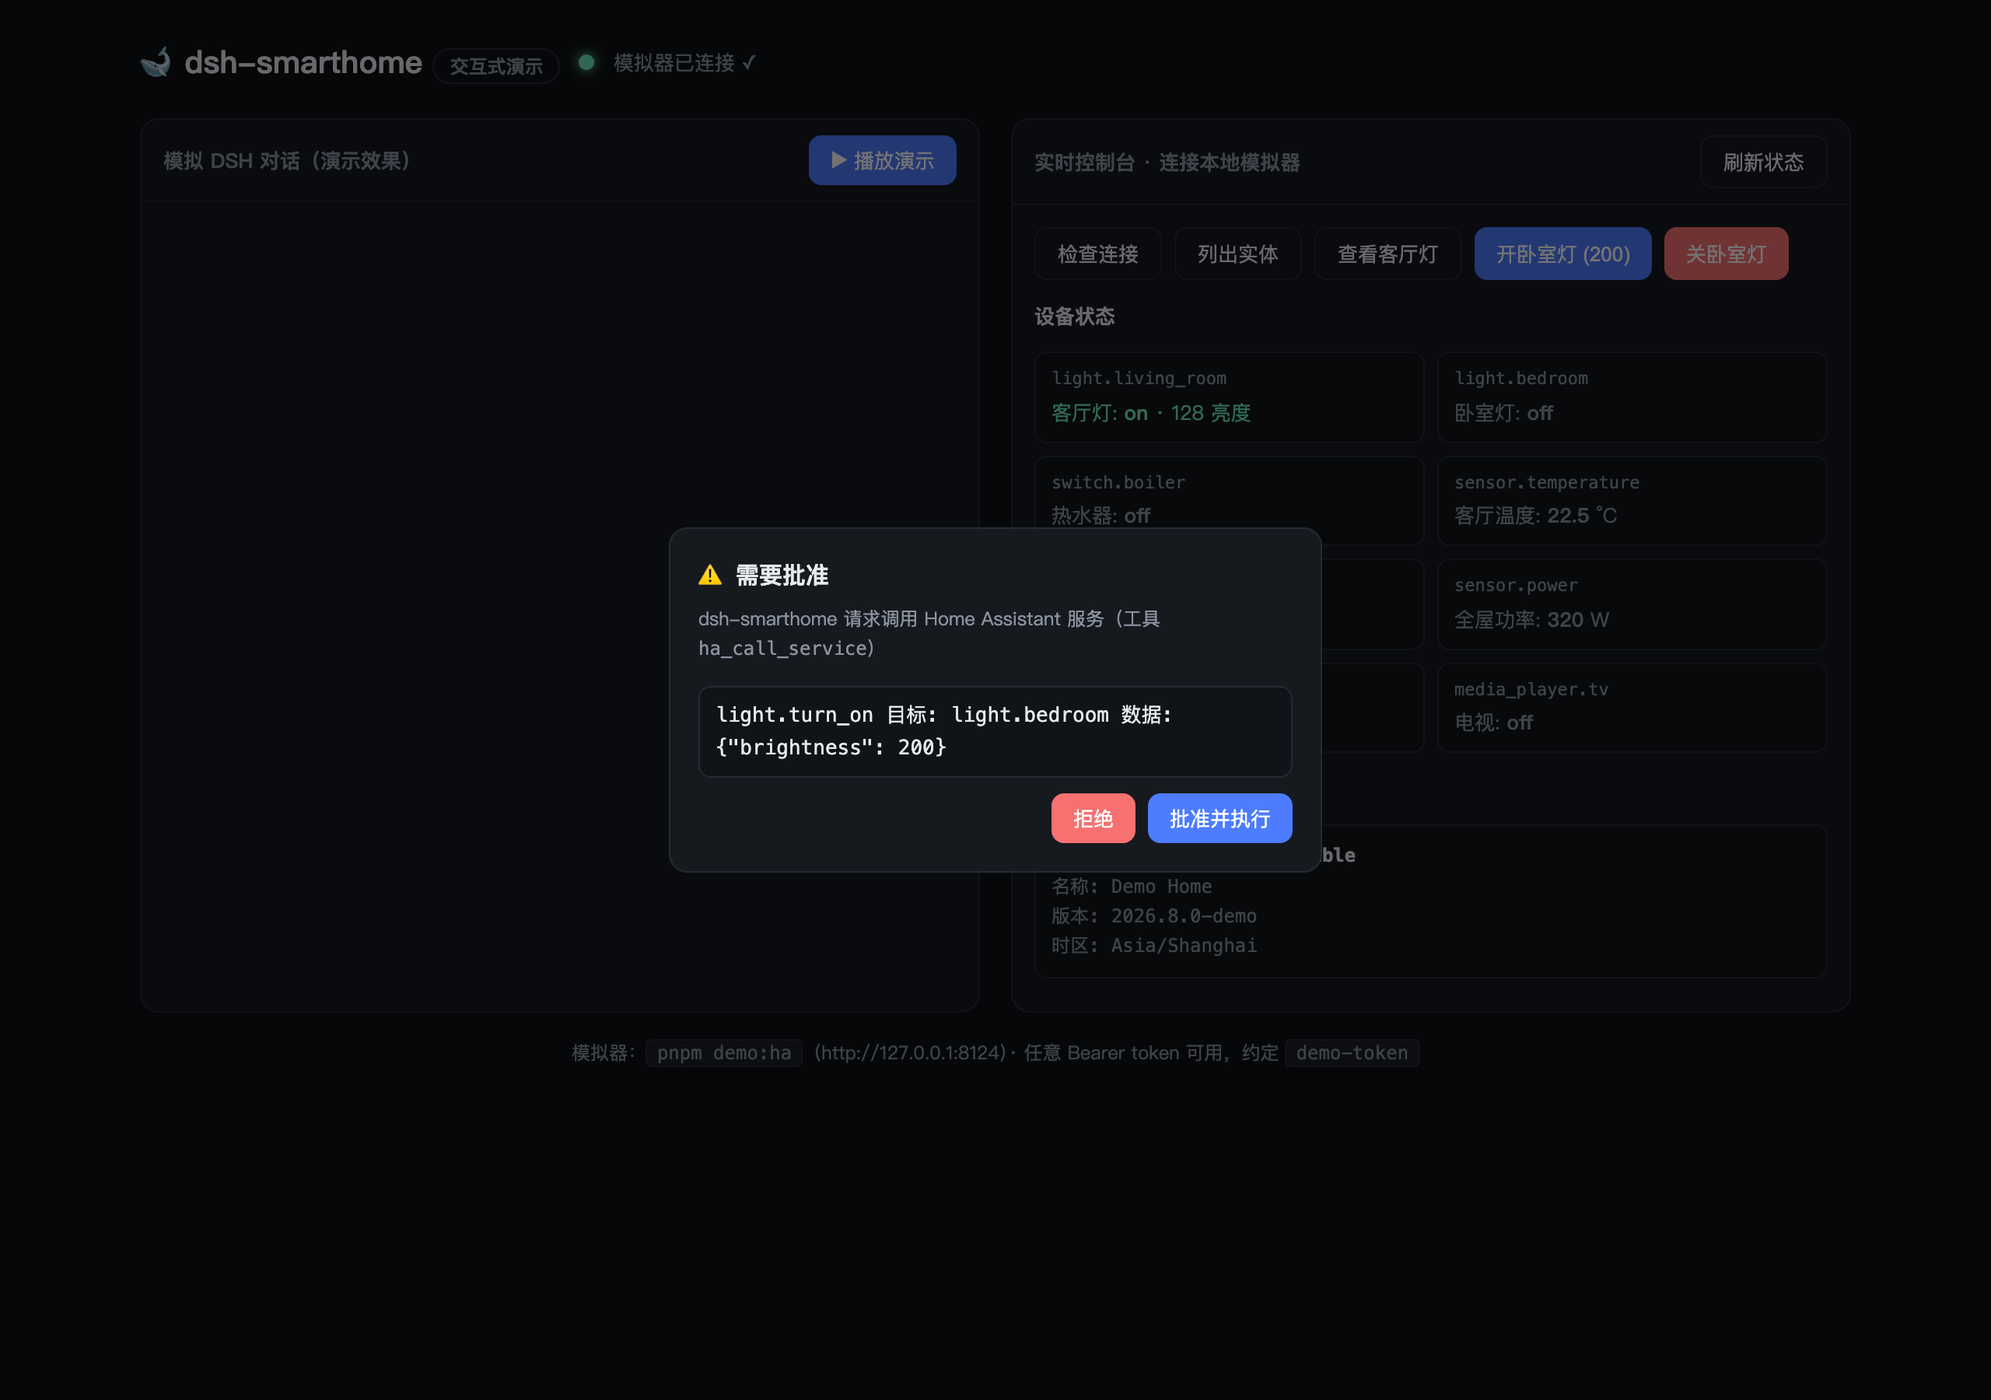
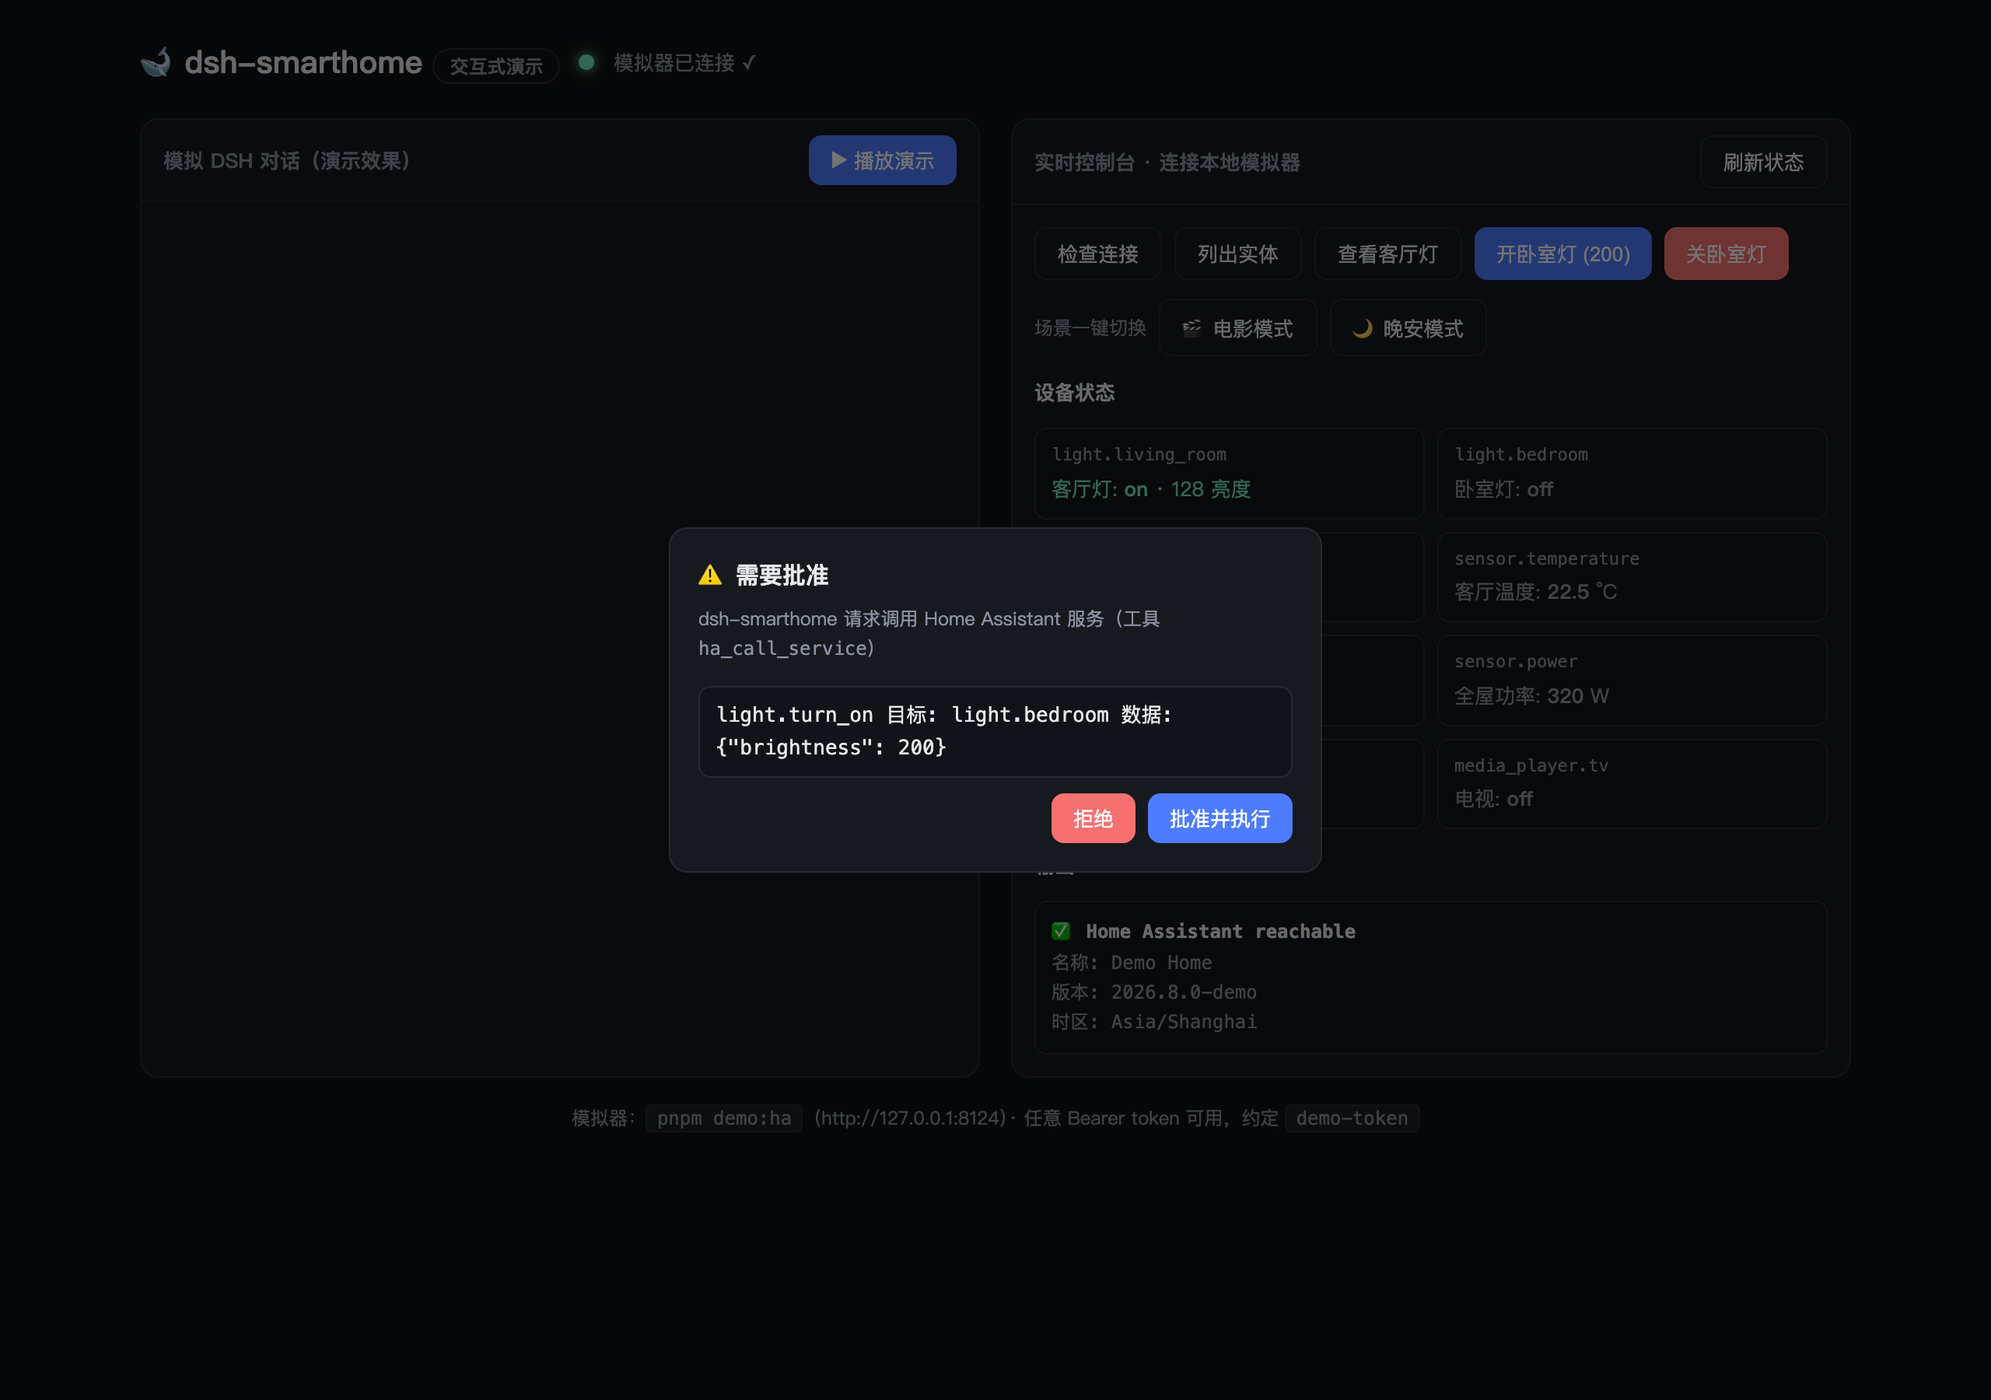
feat: v1.1.0 — scenes + README use-case sections
- ha_list_scenes: list one-click scenes; activate via ha_call_service
  (scene.turn_on) with the existing approval gate
- demo emulator: 3 demo scenes (cinema/goodnight/away) whose activation
  cascades across devices with live state_changed broadcasts
- demo page: scene quick buttons (movie / goodnight) in the live console
- README (EN/ZH): new 'What can it do?' use-case table and 'Why it's
  good' section; scenes in the features table and prompts
- emulator tests: start once per suite (ESM cache), wait for WS before
  cascades, explicit timeouts — stable across repeated runs
- 25 tests (3 suites); screenshots refreshed; version 1.1.0

diff --git a/tests/integration.test.ts b/tests/integration.test.ts
@@ -59,7 +59,7 @@ afterAll(() => {
 })
 
 describe('dsh-smarthome in the real tool runtime', () => {
-  it('registers all eight ha_* tools', async () => {
+  it('registers all nine ha_* tools', async () => {
     const ctx = await setup()
     const names = ctx.tools.schemas().map(s => s.name).sort()
     expect(names).toEqual([
@@ -70,6 +70,7 @@ describe('dsh-smarthome in the real tool runtime', () => {
       'ha_history',
       'ha_list_areas',
       'ha_list_entities',
+      'ha_list_scenes',
       'ha_render_template',
     ])
   })
@@ -241,11 +242,13 @@ describe('dsh-smarthome in the real tool runtime', () => {
 
 describe('WebSocket-backed tools against the demo emulator', () => {
   // Imported in-process (the harness sandbox cannot spawn child node processes
-  // from the vitest worker; in-process import is also CI-proof).
+  // from the vitest worker; in-process import is also CI-proof). The emulator
+  // module runs its top-level `listen` exactly once (ESM caches modules), so it
+  // is started once for the whole describe and shared by the tests below.
   let emuPort: number
   let emu: { stop: () => void } | undefined
 
-  async function startEmulator(): Promise<void> {
+  beforeAll(async () => {
     emuPort = 19000 + Math.floor(Math.random() * 1000)
     // The emulator reads its port from argv[2] at import time.
     process.argv[2] = String(emuPort)
@@ -260,7 +263,12 @@ describe('WebSocket-backed tools against the demo emulator', () => {
       await new Promise(r => setTimeout(r, 100))
     }
     throw new Error('demo emulator did not start')
-  }
+  })
+
+  afterAll(() => {
+    emu?.stop()
+    emu = undefined
+  })
 
   async function waitForWs(ctx: Context, want: string, timeoutMs = 8000): Promise<void> {
     const deadline = Date.now() + timeoutMs
@@ -278,15 +286,13 @@ describe('WebSocket-backed tools against the demo emulator', () => {
   }
 
   it('lists areas, buffers live state changes, and targets areas', async () => {
-    await startEmulator()
-    try {
-      const ctx = await setup({
-        baseUrl: `http://127.0.0.1:${emuPort}`,
-        token: 'demo-token',
-        requireApproval: false,
-      })
-      // 1. WebSocket connects (real HA-style WS handshake against the emulator).
-      await waitForWs(ctx, 'connected')
+    const ctx = await setup({
+      baseUrl: `http://127.0.0.1:${emuPort}`,
+      token: 'demo-token',
+      requireApproval: false,
+    })
+    // 1. WebSocket connects (real HA-style WS handshake against the emulator).
+    await waitForWs(ctx, 'connected')
 
       // 2. ha_list_areas reads the area registry over WS.
       const areas = await ctx.tools.execute({
@@ -341,11 +347,7 @@ describe('WebSocket-backed tools against the demo emulator', () => {
         arguments: { entityId: 'light.bedroom' },
       })
       expect((state.value as { state?: string }).state).toBe('off')
-    } finally {
-      emu?.stop()
-      emu = undefined
-    }
-  })
+  }, 20000)
 
   it('degrades gracefully when the WebSocket is unreachable', async () => {
     const ctx = await setup({ wsEnabled: true }) // points at the REST-only mock
@@ -358,4 +360,76 @@ describe('WebSocket-backed tools against the demo emulator', () => {
     expect(areas.isError).toBe(true)
     expect(textOf(areas)).toMatch(/WebSocket is not connected|WebSocket is unavailable/)
   })
+
+  it('lists scenes and activates one — the emulator cascades the whole mood', async () => {
+    const ctx = await setup({
+      baseUrl: `http://127.0.0.1:${emuPort}`,
+      token: 'demo-token',
+      requireApproval: false,
+    })
+    // Make sure THIS plugin's WebSocket is subscribed before the cascade, or
+    // its ha_events buffer would miss the state_changed broadcasts.
+    await waitForWs(ctx, 'connected')
+
+      // 1. ha_list_scenes finds the demo scenes.
+      const scenes = await ctx.tools.execute({
+        signal,
+        callId: CallId('t-scenes'),
+        name: 'ha_list_scenes',
+        arguments: {},
+      })
+      expect(scenes.isError).toBe(false)
+      const sceneList = (scenes.value as { scenes: { entity_id: string; friendly_name: string }[] }).scenes
+      expect(sceneList.map(s => s.entity_id).sort()).toEqual([
+        'scene.away',
+        'scene.cinema',
+        'scene.goodnight',
+      ])
+
+      // 2. Activate "cinema" via the ordinary service-call tool.
+      const activate = await ctx.tools.execute({
+        signal,
+        callId: CallId('t-scene-on'),
+        name: 'ha_call_service',
+        arguments: { domain: 'scene', service: 'turn_on', entityId: 'scene.cinema' },
+      })
+      expect(activate.isError).toBe(false)
+
+      // 3. The cascade landed: dimmed living-room light, TV on, bedroom off.
+      const livingRoom = await ctx.tools.execute({
+        signal,
+        callId: CallId('t-scene-lr'),
+        name: 'ha_get_state',
+        arguments: { entityId: 'light.living_room' },
+      })
+      const lr = livingRoom.value as { state?: string; attributes?: { brightness?: number } }
+      expect(lr.state).toBe('on')
+      expect(lr.attributes?.brightness).toBe(40)
+
+      const tv = await ctx.tools.execute({
+        signal,
+        callId: CallId('t-scene-tv'),
+        name: 'ha_get_state',
+        arguments: { entityId: 'media_player.tv' },
+      })
+      expect((tv.value as { state?: string }).state).toBe('on')
+
+      const bedroom = await ctx.tools.execute({
+        signal,
+        callId: CallId('t-scene-br'),
+        name: 'ha_get_state',
+        arguments: { entityId: 'light.bedroom' },
+      })
+      expect((bedroom.value as { state?: string }).state).toBe('off')
+
+      // 4. The whole cascade is visible in the real-time event feed.
+      const events = await ctx.tools.execute({
+        signal,
+        callId: CallId('t-scene-events'),
+        name: 'ha_events',
+        arguments: {},
+      })
+      const eventList = (events.value as { events: { entity_id: string }[] }).events
+      expect(eventList.some(e => e.entity_id === 'media_player.tv')).toBe(true)
+  }, 20000)
 })

diff --git a/src/tools.ts b/src/tools.ts
@@ -418,4 +418,59 @@ export function registerTools(
       return { template: args.template, rendered }
     },
   }))
+
+  ctx.tools.register(defineTool({
+    name: 'ha_list_scenes',
+    description:
+      'List Home Assistant scenes (one-click moods like "cinema", "goodnight", "away"). ' +
+      'Activate one with ha_call_service: domain "scene", service "turn_on", entityId the scene entity id.',
+    parameters: {
+      query: { type: 'string', description: 'Optional text search over scene id or friendly name' },
+    },
+    output: {
+      schema: {
+        type: 'object',
+        additionalProperties: true,
+        properties: {
+          count: { type: 'number' },
+          scenes: {
+            type: 'array',
+            items: {
+              type: 'object',
+              additionalProperties: true,
+              properties: {
+                entity_id: { type: 'string' },
+                state: { type: 'string' },
+                friendly_name: { type: 'string' },
+              },
+            },
+          },
+        },
+      },
+      render: (_args, value) => {
+        const scenes = value.scenes as { entity_id: string; friendly_name: string }[]
+        return text(scenes.length
+          ? scenes.map(s => `- ${s.entity_id}: ${s.friendly_name || s.entity_id}`).join('\n')
+          : '(no scenes)')
+      },
+    },
+    async execute(args) {
+      const states = await client.getStates()
+      const query = (args.query ?? '').toLowerCase()
+      const scenes = states
+        .filter(s => s.entity_id.startsWith('scene.'))
+        .filter(s => !query ||
+          s.entity_id.toLowerCase().includes(query) ||
+          String(s.attributes.friendly_name ?? '').toLowerCase().includes(query))
+        .sort((a, b) => a.entity_id.localeCompare(b.entity_id))
+        .map(s => ({
+          entity_id: s.entity_id,
+          state: s.state,
+          friendly_name: typeof s.attributes.friendly_name === 'string'
+            ? s.attributes.friendly_name
+            : '',
+        }))
+      return { count: scenes.length, scenes }
+    },
+  }))
 }

diff --git a/docs/demo.html b/docs/demo.html
@@ -88,6 +88,11 @@
           <button class="btn" data-act="turnon">开卧室灯 (200)</button>
           <button class="btn danger" data-act="turnoff">关卧室灯</button>
         </div>
+        <div class="row">
+          <span style="font-size:12px;color:var(--muted);align-self:center">场景一键切换</span>
+          <button class="btn ghost" data-act="scene-cinema">🎬 电影模式</button>
+          <button class="btn ghost" data-act="scene-goodnight">🌙 晚安模式</button>
+        </div>
         <div><b style="font-size:13px">设备状态</b></div>
         <div id="states" class="states"></div>
         <div><b style="font-size:13px">输出</b></div>
@@ -330,6 +335,13 @@ document.querySelectorAll('.console [data-act]').forEach(btn => {
       const approved = await askApproval(`light.${service}\n目标: light.bedroom${act === 'turnon' ? '\n数据: {"brightness": 200}' : ''}`);
       if (!approved) { logOut('❌ 已拒绝'); return; }
       return callService('light', service, { entity_id: ['light.bedroom'], ...(act === 'turnon' ? { brightness: 200 } : {}) });
+    }
+    if (act === 'scene-cinema' || act === 'scene-goodnight') {
+      const sceneId = act === 'scene-cinema' ? 'scene.cinema' : 'scene.goodnight';
+      const name = act === 'scene-cinema' ? '🎬 电影模式' : '🌙 晚安模式';
+      const approved = await askApproval(`scene.turn_on\n场景: ${name}\n目标: 全屋多设备联动`);
+      if (!approved) { logOut('❌ 已拒绝'); return; }
+      return callService('scene', 'turn_on', { entity_id: [sceneId] });
     }
   };
 });

diff --git a/README.md b/README.md
@@ -27,6 +27,30 @@ Click any image to open the live demo — [`docs/demo.html`](docs/demo.html) sim
 | <img src="docs/assets/demo-start.png" width="380" alt="start"> | <img src="docs/assets/demo-approval.png" width="380" alt="approval"> | <img src="docs/assets/demo-final.png" width="380" alt="final"> |
 | The agent lists your lights with `ha_list_entities`. | `ha_call_service` pauses for a human approval dialog. | Approved — `ha_get_state` confirms the light turned on. |
 
+## 🎯 What can it do?
+
+Talk to your home the way you talk to an assistant — every write goes through a human approval gate first.
+
+| You say | What happens |
+|---|---|
+| "Check the whole house — which devices are still on?" | Agent scans with `ha_list_entities` / `ha_get_state` and summarizes |
+| "Set the bedroom light to 200 brightness." | `ha_call_service` → **approval dialog** → executes → state updates instantly |
+| "Turn off every light in the living room." | **Area targeting** — one call controls the whole room |
+| "Start cinema mode." | Scene activation: dimmed lights + TV on — a whole cascade of devices in one shot (`ha_events` shows each change live) |
+| "What changed in the house in the last hour?" | Real-time `state_changed` events from the **WebSocket** feed |
+| "Is the living room warm enough? Compare with the bedroom." | `ha_get_state` / `ha_render_template` over sensors |
+| "Turn everything off, I'm leaving." | One scene (`scene.away`) or a multi-entity service call |
+
+## 💡 Why it's good — how useful is it?
+
+- **One-line install**: `dsh plugin --profile web add dsh-smarthome`, then just talk to the agent.
+- **Safe by default**: every state-changing call stops for human approval; `allowedDomains` is a second deny-list belt. The agent can never touch your home without you saying yes.
+- **Natural language control**: no apps to fiddle with, no API docs to memorize — "dim the lights" just works.
+- **Always current**: state changes reach the agent in real time over WebSocket, so it never "thinks" the light is still on when you switched it off.
+- **Lightweight**: zero runtime dependencies — plain REST + Node's built-in WebSocket. No MQTT broker, no extra daemon.
+- **Try it without Home Assistant**: the repo ships a demo emulator + interactive demo page — 5 minutes to a full feel of the plugin.
+- **Engineered, not hacked together**: 24 tests including a full **real agent-loop end-to-end** suite, strict TypeScript, CI.
+
 ## 🛠 Features
 
 | Tool | Description | Approval |
@@ -37,7 +61,8 @@ Click any image to open the live demo — [`docs/demo.html`](docs/demo.html) sim
 | `ha_get_state` | Full state + attributes of one entity | read |
 | `ha_history` | State-change timeline over a time window | read |
 | `ha_events` | Recent real-time state changes buffered from the WebSocket | read |
-| `ha_call_service` | Call any service — by **entity**, by **area** (whole room), or by **device** | **ask** |
+| `ha_list_scenes` | List one-click scenes (`cinema`, `goodnight`, `away`…) | read |
+| `ha_call_service` | Call any service — by **entity**, by **area** (whole room), by **device**, or **scene** | **ask** |
 | `ha_render_template` | Render a Jinja2 template server-side | **ask** |
 
 Example prompts:
@@ -49,6 +74,8 @@ Example prompts:
 > "Show me the boiler switch history for the last 24 hours."
 >
 > "Turn off every light in the bedroom." *(area targeting — one call, whole room)*
+>
+> "Start cinema mode." *(scene activation — lights dim, TV turns on)*
 >
 > "What changed in the house in the last hour?" *(real-time `ha_events`)*
 

diff --git a/README.zh.md b/README.zh.md
@@ -27,6 +27,30 @@
 | <img src="docs/assets/demo-start.png" width="380" alt="开始"> | <img src="docs/assets/demo-approval.png" width="380" alt="审批"> | <img src="docs/assets/demo-final.png" width="380" alt="完成"> |
 | agent 用 `ha_list_entities` 列出你的灯。 | `ha_call_service` 暂停，弹出人工审批框。 | 批准后 `ha_get_state` 确认灯已打开。 |
 
+## 🎯 能做什么？
+
+像跟管家说话一样指挥你的家——所有写操作都先经过人工审批。
+
+| 你说 | 会发生什么 |
+|---|---|
+| 「检查一下全屋，哪些设备还开着？」 | agent 用 `ha_list_entities` / `ha_get_state` 扫描并汇总 |
+| 「把卧室灯调到 200 亮度。」 | `ha_call_service` → **审批弹窗** → 执行 → 状态即时更新 |
+| 「关掉客厅里所有的灯。」 | **区域定位**——一次调用控制整间房 |
+| 「开启电影模式。」 | 场景联动：灯调暗、电视打开——一条命令多设备联动（`ha_events` 实时显示每个变化） |
+| 「过去一小时家里发生了什么变化？」 | WebSocket **实时事件流** |
+| 「客厅温度够吗？和卧室比一下。」 | `ha_get_state` / `ha_render_template` 查传感器、算模板 |
+| 「我要出门了，把一切都关掉。」 | 一个场景（`scene.away`）或批量实体调用 |
+
+## 💡 为什么好用？
+
+- **一行安装**：`dsh plugin --profile web add dsh-smarthome`，装完直接说话
+- **安全默认**：所有改变状态的调用都停在人工审批前；`allowedDomains` 域白名单是第二道保险——**agent 不经你同意永远碰不了你的家**
+- **自然语言控制**：不用翻 App、不用记 API，一句「把灯调暗」就搞定
+- **状态永远新鲜**：WebSocket 实时推送，agent 不会"以为"灯还开着
+- **轻量**：零运行时依赖——纯 REST + Node 内置 WebSocket，没有 MQTT、没有额外守护进程
+- **没有 Home Assistant 也能玩**：自带演示模拟器 + 交互演示页，5 分钟完整感受
+- **工程化而非拼凑**：24 个测试（含完整**真实 agent-loop 端到端**）、严格 TypeScript、CI
+
 ## 🛠 功能
 
 | 工具 | 说明 | 审批 |
@@ -37,7 +61,8 @@
 | `ha_get_state` | 单个实体的完整状态与属性 | 只读 |
 | `ha_history` | 一段时间内的状态变化时间线 | 只读 |
 | `ha_events` | WebSocket 缓冲的最近实时状态变化 | 只读 |
-| `ha_call_service` | 调用任意服务——按**实体**、按**区域**（整间房）、按**设备** | **需批准** |
+| `ha_list_scenes` | 列出一键场景（`cinema`、`goodnight`、`away`…） | 只读 |
+| `ha_call_service` | 调用任意服务——按**实体**、按**区域**（整间房）、按**设备**、按**场景** | **需批准** |
 | `ha_render_template` | 服务端渲染 Jinja2 模板 | **需批准** |
 
 示例提示词：
@@ -49,6 +74,8 @@
 > 「给我看过去 24 小时锅炉开关的历史记录。」
 >
 > 「关掉卧室里所有的灯。」*（区域定位——一次调用，整间房）*
+>
+> 「开启电影模式。」*（场景联动——灯调暗、电视打开）*
 >
 > 「过去一小时家里发生了什么变化？」*（实时 `ha_events`）*
 
